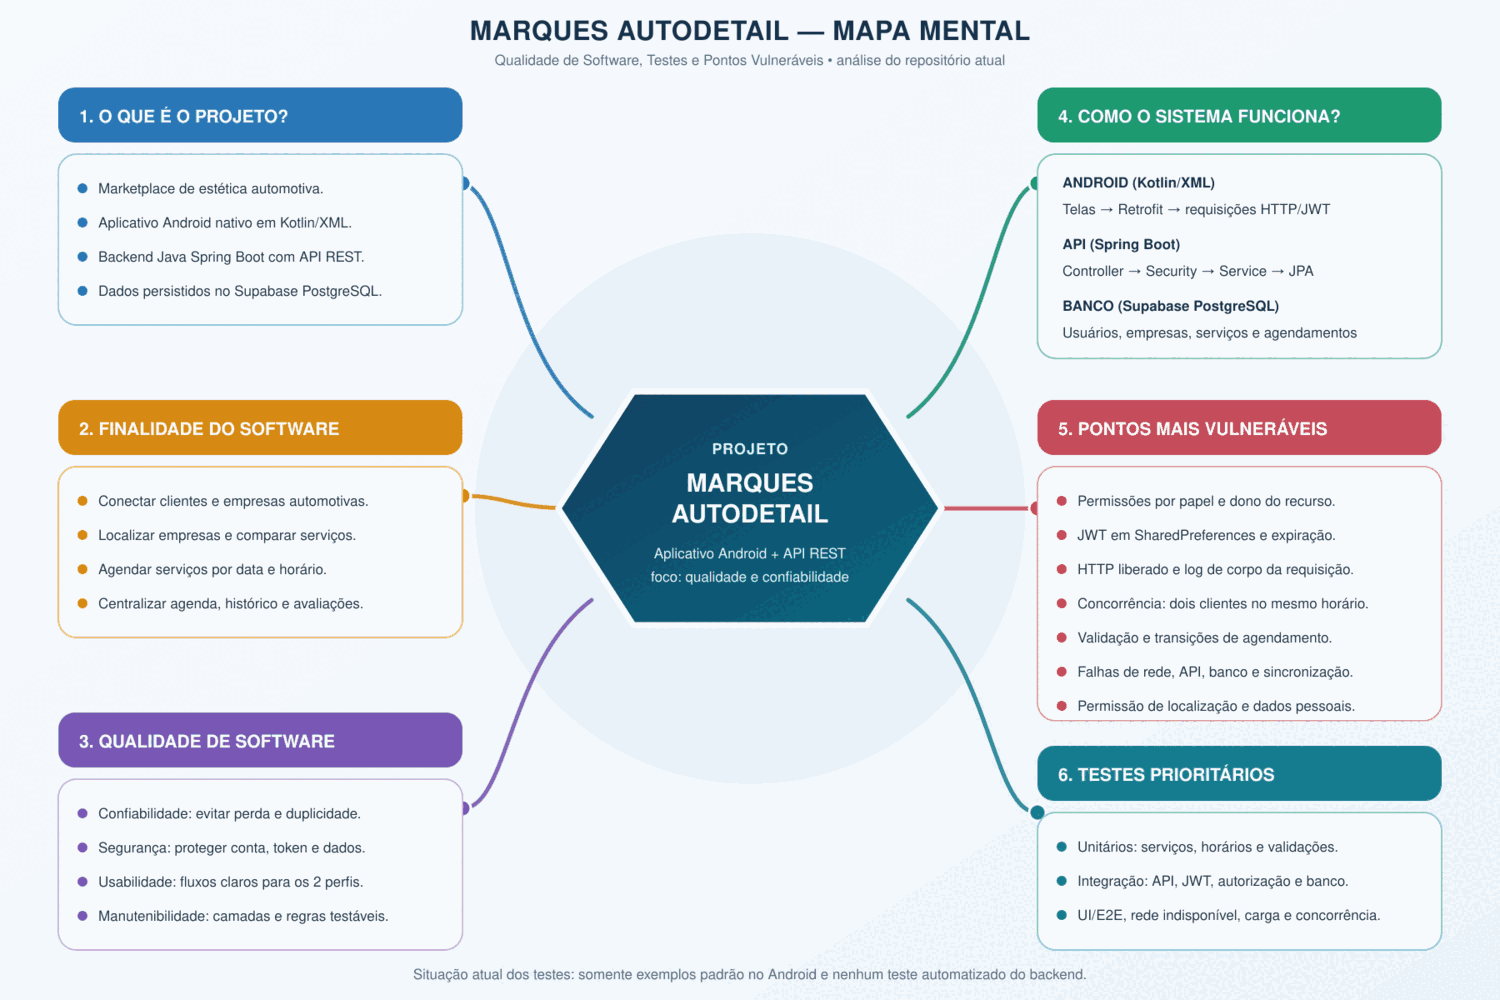
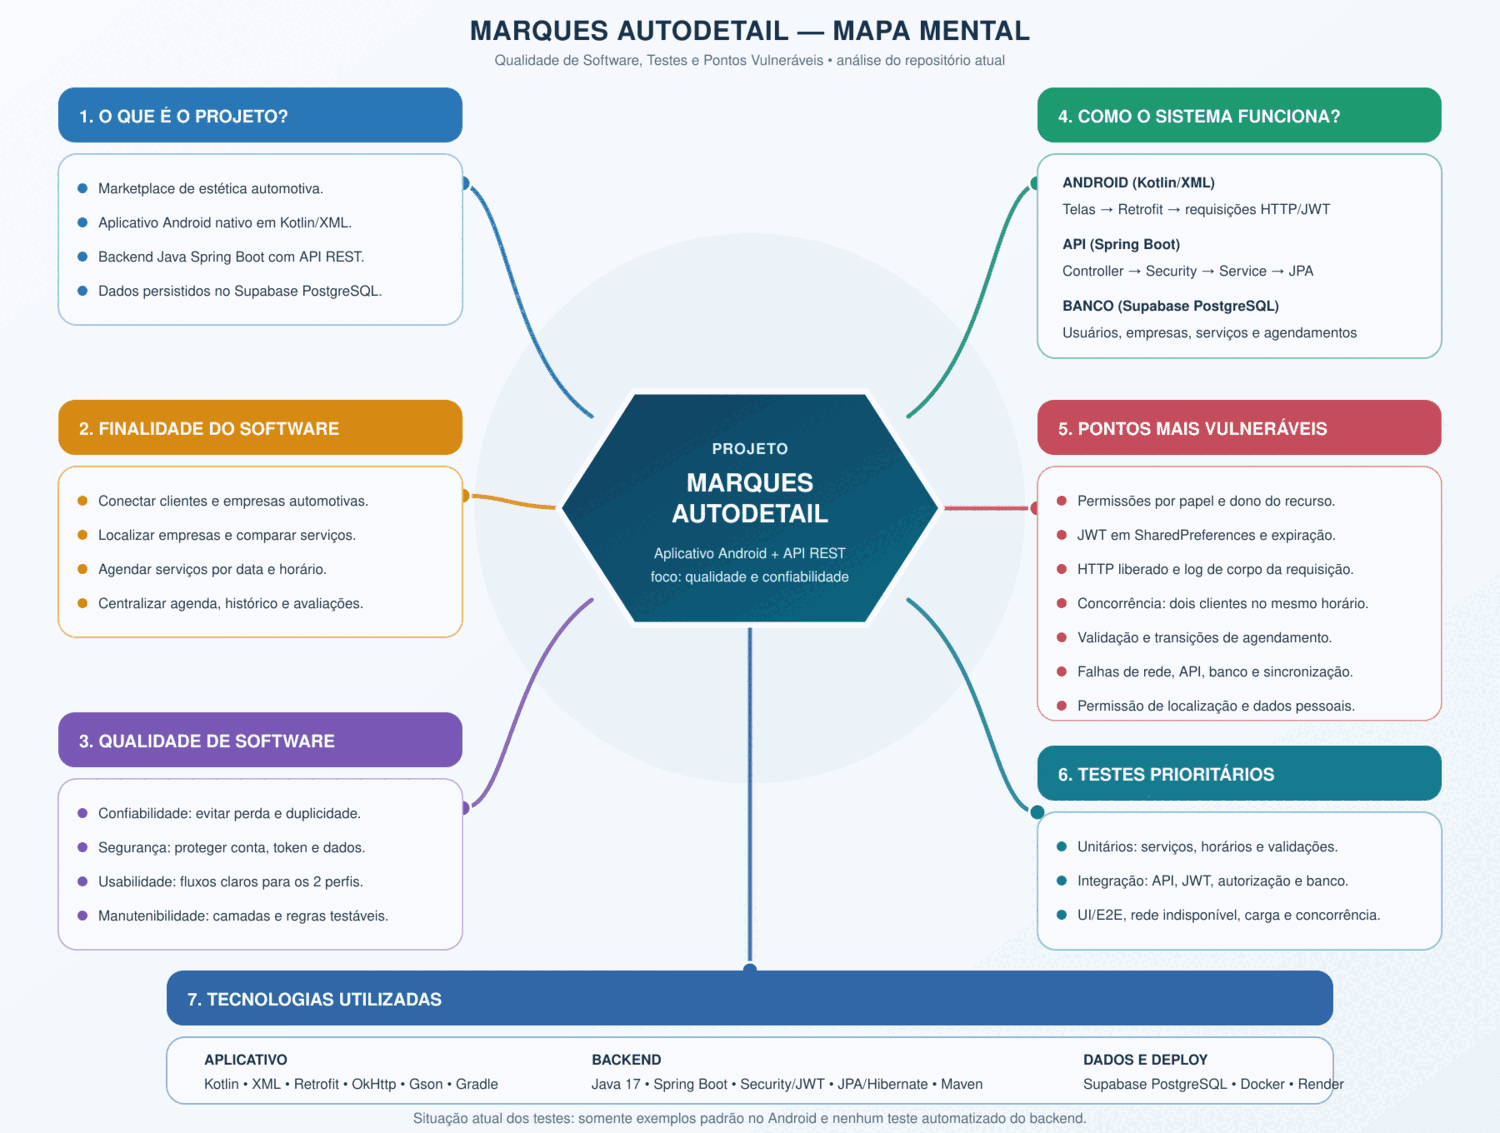
docs: adiciona tecnologias ao mapa mental

diff --git a/docs/MAPA_MENTAL_QUALIDADE_TESTES.md b/docs/MAPA_MENTAL_QUALIDADE_TESTES.md
@@ -22,6 +22,13 @@ O sistema aproxima clientes e empresas de estética automotiva. Ele permite enco
 4. O Supabase PostgreSQL armazena usuários, empresas, endereços, serviços, horários, agendamentos, favoritos e avaliações.
 5. Há dois fluxos principais: **cliente**, que pesquisa e agenda serviços, e **empresa**, que administra serviços, disponibilidade e agendamentos.
 
+### Quais tecnologias são utilizadas?
+
+- **Aplicativo Android:** Kotlin, XML, Retrofit, OkHttp, Gson e Gradle.
+- **Backend:** Java 17, Spring Boot, Spring Web, Spring Security, JWT, Spring Data JPA/Hibernate e Maven.
+- **Banco de dados:** Supabase PostgreSQL.
+- **Infraestrutura e deploy:** Docker e Render.
+
 ### Quais camadas ou funções são mais suscetíveis a falhas?
 
 - **Autenticação e autorização:** conferir JWT inválido ou expirado, papel do usuário e propriedade do recurso. No código atual, algumas alterações dependem apenas de o usuário estar autenticado, sem validar claramente se ele é a empresa ou o cliente relacionado ao dado.
